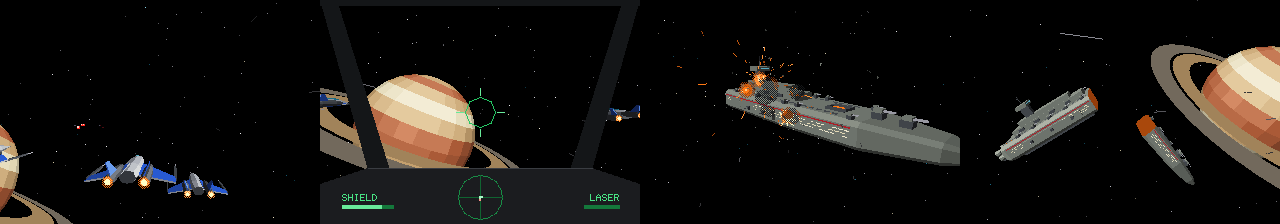
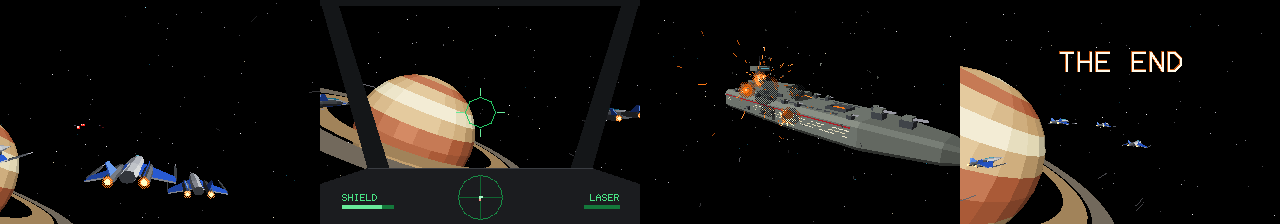
Restore the ending the extension had removed
When the film was extended from 73 to 100 seconds, the "THE END" card that
closed scene 8 was deleted rather than kept: the reasoning was that a title at
68.8 s would be false once two more scenes followed. That was the wrong call,
and the diff made it plain — comparing the first 73 seconds of the two renders
showed 124 differing frames, all in one range, 2065 to 2188, which is exactly
the block that drew the card.

The card is back where it was, with the original timing, position and colour.
The aftermath is now what it should always have been: a coda after the ending
rather than a continuation before it. The scene 10 card does not repeat the
title - it opens on the name and the credits instead - so the film says THE
END once, over the cooling wreck.

Verified: the first 2,190 frames are byte-identical to the pre-extension
render again (0 differing frames, was 124); the film still runs 3,000 frames;
the re-rendered MP4 probes as 100.000 s with h264 and aac, and frames pulled
from it at 69, 91 and 96 seconds show the restored title, the aftermath and
the closing card.

Changed region(s): [[0.75, 0.1875, 1.0, 1.0]]

diff --git a/README.md b/README.md
@@ -22,7 +22,7 @@ The whole film: [space.mp4](https://github.com/luckyseoul/SPACE.cob/releases/dow
 (1280×896, 30 fps, 100 s, with sound, 9.7 MB). Or render it yourself in a
 couple of minutes with `./render.sh`.
 
-![The squadron, the cockpit, the strafing run, the aftermath](media/screenshot.png)
+![The squadron, the cockpit, the strafing run, the ending](media/screenshot.png)
 
 ## Requirements
 
